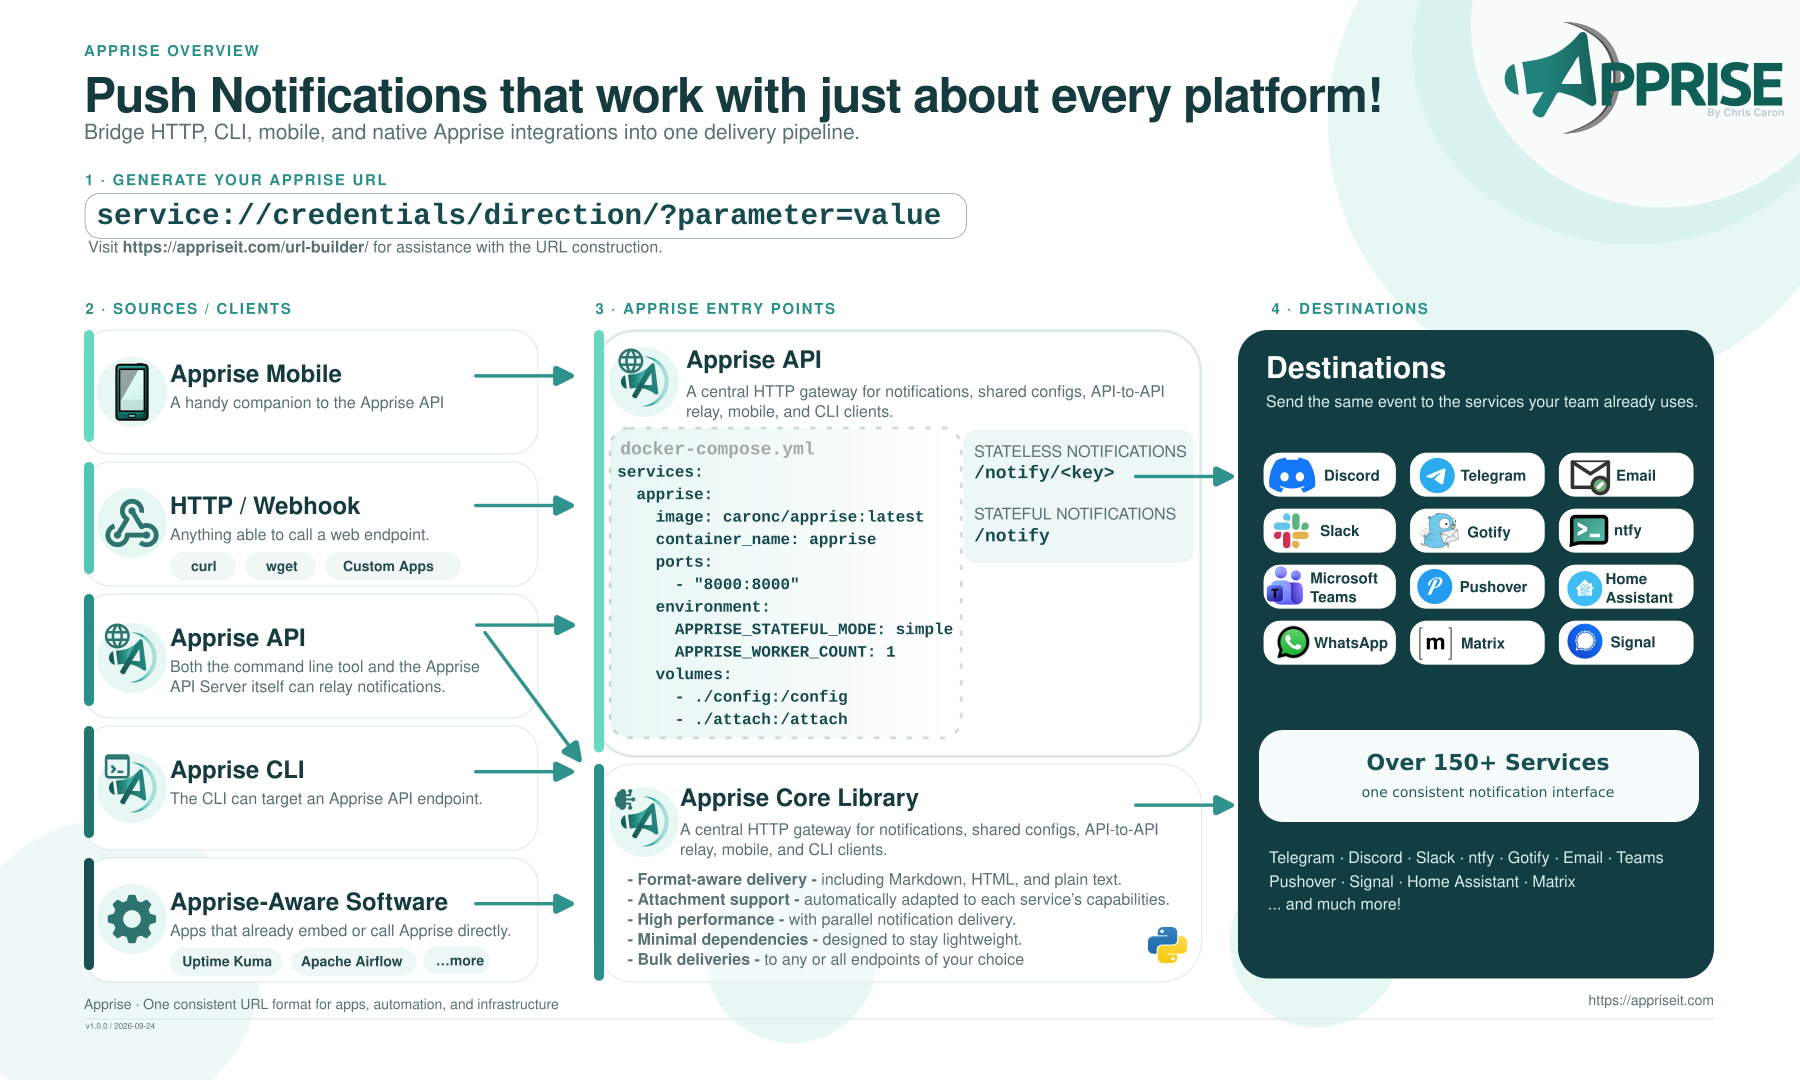
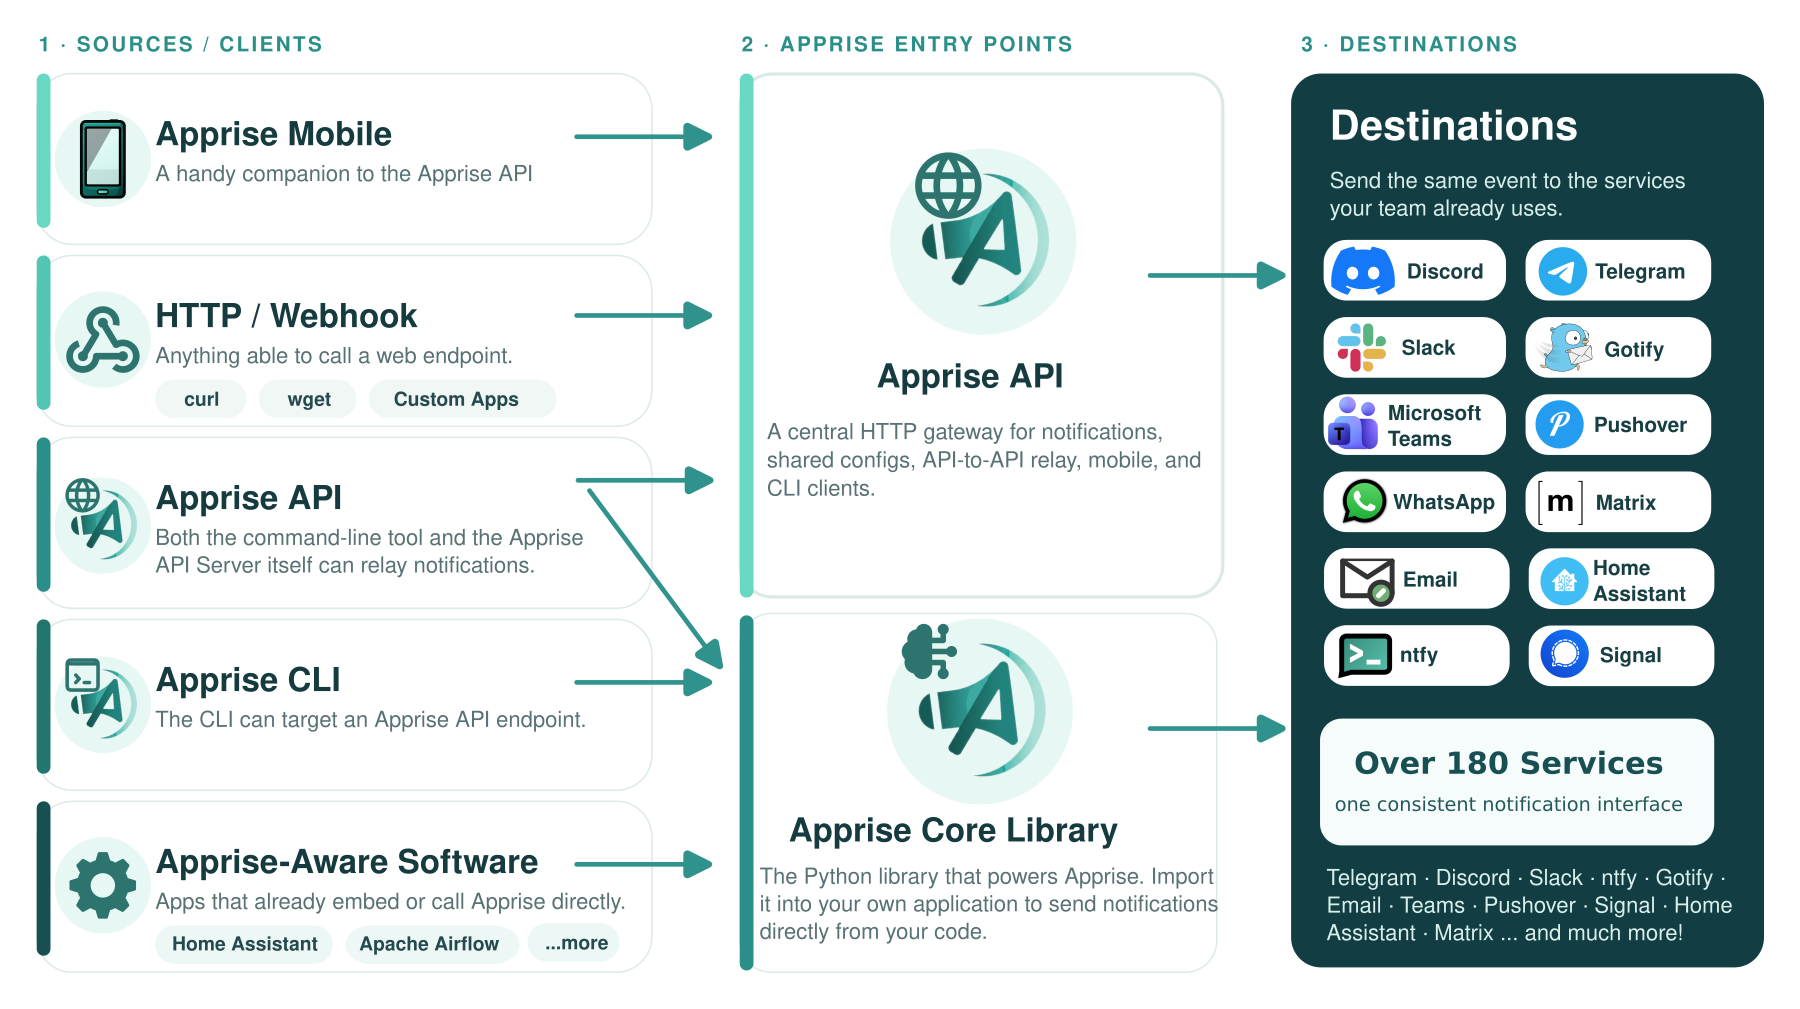
more parse fixes + updated images for README.md

diff --git a/tests/test_fields.py b/tests/test_fields.py
@@ -60,7 +60,7 @@ def round_trip(url):
     return obj, fields, fields_to_url(fields)
 
 
-def test_fields_use_the_names_details_lists():
+def test_field_names_and_types():
     """Fields are named and typed the way details() describes them."""
     _, fields, _ = round_trip(
         "mailtos://user:secret@example.com"
@@ -113,7 +113,7 @@ def test_private_fields_are_hidden():
         ("ntfy://tk_SECRET123456@localhost/topic1", ("tk_SECRET123456",)),
     ),
 )
-def test_privacy_fields_hide_what_the_privacy_url_hides(url, secrets):
+def test_privacy_fields_match_url(url, secrets):
     """Text the privacy URL hides is masked in the privacy fields too."""
     obj = Apprise.instantiate(url)
     hidden = obj.url_fields(privacy=True)
@@ -127,7 +127,7 @@ def test_privacy_fields_hide_what_the_privacy_url_hides(url, secrets):
     assert hidden["retry"] == 0
 
 
-def test_hide_fields_masks_fields_already_read():
+def test_hide_fields():
     """hide_fields() masks fields the way url_fields(privacy=True) does."""
     obj = Apprise.instantiate("json://user:pass@localhost/?+X-Token=abc&-p1=v")
     fields = obj.url_fields()
@@ -140,7 +140,7 @@ def test_hide_fields_masks_fields_already_read():
     assert fields["password"] == "pass"
 
 
-def test_privacy_fields_of_a_url_its_service_would_refuse():
+def test_privacy_fields_unloadable_url():
     """All text but the schema and fixed choices is masked."""
     fields = parse_fields("plivo://AUTHID@SECRETTOKEN/", privacy=True)
     assert fields["schema"] == "plivo"
@@ -181,7 +181,7 @@ def test_privacy_fields_of_a_url_its_service_would_refuse():
         "kodi://[2001:db8::1]:8080",
     ),
 )
-def test_fields_assemble_the_same_url(url):
+def test_fields_round_trip(url):
     """The fields of a URL put the same URL together again."""
     obj, fields, built = round_trip(url)
     again = Apprise.instantiate(built)
@@ -189,7 +189,7 @@ def test_fields_assemble_the_same_url(url):
     assert again.url_fields() == fields
 
 
-def test_email_host_fields_assemble_the_same_url():
+def test_email_host_round_trip():
     """An email written as the host comes back as the same email."""
     # Octopush needs nothing extra, so this runs wherever Apprise does
     fields = parse_fields(
@@ -236,7 +236,7 @@ def test_vapid_fields_without_cryptography():
     assert parse_fields("json://localhost")["schema"] == "json"
 
 
-def test_key_value_options_come_back_as_maps():
+def test_key_value_option_maps():
     """Each +, - and : option comes back in its own map."""
     _, fields, built = round_trip(
         "json://localhost?+X-Token=abc&-p1=v&:key=val"
@@ -308,7 +308,7 @@ def test_fields_from_a_form():
         },
     ),
 )
-def test_fields_that_cannot_be_assembled(fields):
+def test_fields_refused(fields):
     """Unknown schemas and names, and badly shaped values, are refused."""
     assert fields_to_url(fields) is None
 
@@ -316,7 +316,7 @@ def test_fields_that_cannot_be_assembled(fields):
 @pytest.mark.parametrize(
     "schema", ("dbus", "glib", "gnome", "macosx", "windows")
 )
-def test_desktop_services_read_nothing_from_an_unreadable_url(schema):
+def test_desktop_unreadable_url(schema):
     """A URL a desktop service cannot read gives nothing back.
 
     - It holds whether or not the service's own library is installed.
@@ -324,7 +324,7 @@ def test_desktop_services_read_nothing_from_an_unreadable_url(schema):
     assert N_MGR[schema].parse_url(None) is None
 
 
-def test_values_cannot_change_the_url_around_them():
+def test_field_values_quoted():
     """Text is quoted so it never adds options or splits differently."""
     # Brackets only stay unquoted around a real IPv6 host
     built = fields_to_url(
@@ -355,7 +355,7 @@ def test_values_cannot_change_the_url_around_them():
     assert built.startswith("octopush://me@example.com/")
 
 
-def test_aliases_are_merged_into_their_item():
+def test_alias_fields_merged():
     """Content given under an alias is kept, merged into what it stands for."""
     # A list alias adds to the list it stands for
     obj = Apprise.instantiate(
@@ -396,7 +396,22 @@ def test_aliases_are_merged_into_their_item():
     assert fields["sender"] == by_hand.url_fields()["sender"]
 
 
-def test_fields_of_a_url_its_service_would_refuse():
+def test_list_member_fields_merged():
+    """Tokens that add to the same list all end up in it."""
+    obj = Apprise.instantiate(
+        fields_to_url(
+            {
+                "schema": "slack",
+                "access_token": "xoxb-1234-1234-abc124",
+                "targets": ["#general"],
+                "target_user": "@bob",
+            }
+        )
+    )
+    assert sorted(obj.url_fields()["targets"]) == ["#general", "@bob"]
+
+
+def test_fields_unloadable_url():
     """What a URL holds is read even when its service would not load it."""
     # Nothing but the schema, in any case
     assert parse_fields("MAILTO://")["schema"] == "mailto"
@@ -412,7 +427,7 @@ def test_fields_of_a_url_its_service_would_refuse():
         assert parse_fields(url) == {}
 
 
-def test_disabled_services_have_no_fields():
+def test_disabled_service_fields():
     """A disabled service is treated like one that is not known."""
     with mock.patch.object(N_MGR["json"], "enabled", False):
         assert parse_fields("json://localhost") == {}
@@ -423,21 +438,21 @@ def test_disabled_services_have_no_fields():
     assert fields_to_url({"schema": "json", "host": "localhost"})
 
 
-def test_every_service_reads_a_broken_url_without_failing():
+def test_broken_url_fields():
     """A URL cut off mid-way gives no fields, whatever its service."""
     for schema in N_MGR.schemas():
         for url in (f"{schema}://[", f"{schema}://:@[", f"{schema}:///["):
             assert isinstance(parse_fields(url), dict), url
 
 
-def test_url_that_cannot_be_read_back():
+def test_unreadable_own_url():
     """A URL its own plugin cannot read back has no fields."""
     obj = Apprise.instantiate("json://localhost")
     with mock.patch.object(type(obj), "parse_url", return_value=None):
         assert obj.url_fields() == {}
 
 
-def test_values_are_read_as_their_type():
+def test_typed_values():
     """Values are converted to the type their entry describes."""
     # Sets have no order, so they come back sorted
     assert _typed({"b", "a"}, {"type": "list:string"}) == ["a", "b"]

diff --git a/apprise/fields.py b/apprise/fields.py
@@ -74,6 +74,8 @@ EMPTY_PLACEHOLDERS = (
 
 def _empty(value: Any) -> bool:
     """Return whether a value holds nothing worth keeping."""
+    # Empty text and empty collections count as nothing, while 0 and
+    # False are real values
     return (
         value is None
         or value == ""
@@ -126,7 +128,7 @@ def _typed(value: Any, meta: dict[str, Any]) -> Any:
             try:
                 return convert(value)
 
-            except (TypeError, ValueError):
+            except ValueError:
                 # Keep what was written when it is not a number
                 return value
 
@@ -140,6 +142,7 @@ def _fits(value: Any, meta: dict[str, Any], kwarg: bool = False) -> bool:
     - A list is one plain value or a flat list of them.
     - Anything else is one plain value: text, a number or True/False.
     """
+    # True/False count as numbers here, so they are plain values too
     plain = (str, int, float)
     if kwarg:
         return isinstance(value, dict) and all(
@@ -202,12 +205,15 @@ def hide_fields(plugin: Any, fields: dict[str, Any]) -> dict[str, Any]:
     shown = (shown, URLBase.unquote(shown))
 
     def hide(value: Any) -> Any:
+        """Return a value masked wherever the privacy URL hides it."""
+        # Each entry of a list or key/value map is checked on its own
         if isinstance(value, list):
             return [hide(entry) for entry in value]
 
         if isinstance(value, dict):
             return {key: hide(entry) for key, entry in value.items()}
 
+        # Text the privacy URL shows (as is or quoted) is kept
         if not isinstance(value, str) or any(
             text in url
             for url in shown
@@ -255,6 +261,7 @@ def parse_fields(url: str, privacy: bool = False) -> dict[str, Any]:
     - ``privacy`` masks all text but the schema and values picked from a
       list of choices, since such a URL has no privacy URL to compare to.
     """
+    # Only a known service that is turned on can read the URL
     found = GET_SCHEMA_RE.match(url) if isinstance(url, str) else None
     schema = found.group("schema").lower() if found else ""
     if schema not in N_MGR or not N_MGR[schema].enabled:
@@ -268,10 +275,12 @@ def _fields(
     plugin: Any, results: dict, privacy: bool = False
 ) -> dict[str, Any]:
     """Return parse_url() results as fields named the way details() does."""
+    if not results.get("schema"):
+        # The URL could not be read at all
+        return {}
+
     info = details(plugin)
     tokens, args, kwargs = info["tokens"], info["args"], info["kwargs"]
-    if not results.get("schema"):
-        return {}
 
     # The user and password are still quoted; plugins unquote them later
     for key in ("user", "password"):
@@ -309,7 +318,7 @@ def _fields(
             # A lone slash is no path at all
             value = None
 
-        value = _typed(value, meta) if value is not None else None
+        value = _typed(value, meta)
         if not _empty(value):
             fields[name], entries[name] = value, meta
 
@@ -321,8 +330,7 @@ def _fields(
         if "alias_of" in meta or name in fields or meta["map_to"] in held:
             continue
 
-        found = results.get(meta["map_to"])
-        value = _typed(found, meta) if found is not None else None
+        value = _typed(results.get(meta["map_to"]), meta)
         if not _empty(value):
             fields[name], entries[name] = value, meta
             held.add(meta["map_to"])
@@ -343,17 +351,33 @@ def _fields(
 
 
 def _value_for(name: str, given: dict[str, Any], tokens: dict) -> Any:
-    """Return the token value that fills a template placeholder."""
-    if name in given:
-        return given[name]
+    """Return the token value that fills a template placeholder.
 
-    # Another token may set the same value (a list token and its members)
-    key = tokens.get(name, {}).get("map_to", name)
-    for other, value in given.items():
-        if tokens[other]["map_to"] == key:
-            return value
+    A list placeholder also takes the values of every token that adds to
+    the same list, such as ``target_user`` for ``targets``.
+    """
+    # Other tokens may set the same value (a list token and its members)
+    meta = tokens.get(name, {})
+    key = meta.get("map_to", name)
+    found = [
+        value
+        for other, value in given.items()
+        if tokens[other]["map_to"] == key
+    ]
+    if not found:
+        # Nothing was given for this placeholder
+        return None
 
-    return None
+    if not meta.get("type", "").startswith("list"):
+        # One value fills it; the token the template names comes first
+        return given.get(name, found[0])
+
+    # Every value given is kept, so none is lost from the list
+    merged: list[Any] = []
+    for value in found:
+        merged.extend(value if isinstance(value, (list, tuple)) else [value])
+
+    return merged
 
 
 def _text(value: Any) -> str:

diff --git a/tests/test_apprise_utils.py b/tests/test_apprise_utils.py
@@ -2644,7 +2644,7 @@ def test_parse_urls():
     ]
 
 
-def test_parse_urls_keeps_urls_inside_urls():
+def test_parse_urls_nested_urls():
     """utils: parse_urls() only starts a new URL after a delimiter
 
     - A URL inside another (after "=", "/", "&", "#" or "@") stays part
@@ -2717,7 +2717,7 @@ def test_parse_urls_keeps_urls_inside_urls():
         assert utils.parse.parse_urls(text) == expected, repr(text)
 
 
-def test_find_urls_matches_the_url_detection_expression():
+def test_find_urls_matches_regex():
     """utils: _find_urls() finds exactly what URL_DETECTION_RE finds"""
     # The expression as it was before _find_urls() replaced it. Every
     # change to how URLs are split must still agree with it.

diff --git a/tests/test_api.py b/tests/test_api.py
@@ -2936,7 +2936,7 @@ def test_apprise_details_email_token_types():
                 )
 
 
-def test_apprise_details_templates_keep_the_at_sign_before_the_path():
+def test_apprise_details_template_at_sign():
     """An @ in a URL template separates the login from the host.
 
     Anything after the first / is the path, where an @ is just text.
@@ -2952,7 +2952,7 @@ def test_apprise_details_templates_keep_the_at_sign_before_the_path():
             )
 
 
-def test_apprise_details_every_token_can_be_written():
+def test_apprise_details_tokens_writable():
     """Every token can be written into a URL.
 
     A token is written through a template placeholder, through another

diff --git a/tests/test_plugin_email.py b/tests/test_plugin_email.py
@@ -4858,7 +4858,7 @@ def test_plugin_email_recipient_names(key, recipient, name):
     assert obj2.names[addr] == name
 
 
-def test_plugin_email_url_is_the_same_once_loaded_again():
+def test_plugin_email_url_reload():
     """An Email URL loads back to the same URL, connect timeout included."""
     for url in (
         "mailto://user:pass@example.com/",

diff --git a/apprise/utils/parse.py b/apprise/utils/parse.py
@@ -1175,7 +1175,7 @@ def urlencode(query, doseq=False, safe="", encoding=None, errors=None):
     )
 
 
-def _find_urls(text):
+def _find_urls(text: str) -> list[str]:
     """Return the detected URLs.
 
     - A URL runs from its schema to the first place where up to 32

diff --git a/README.md b/README.md
@@ -13,6 +13,8 @@ To inform or tell (someone). To make one aware of something.
 * Supports the handling of images and attachments (_to the notification services that will accept them_).
 * It's incredibly lightweight.
 * Amazing response times because all messages sent asynchronously.
+* Group your services with tags, then notify only the ones that need to know.
+* Private by design: messages go straight from your machine to each service, with no third party in between.
 
 Developers who wish to provide a notification service no longer need to research each and every one out there. They no longer need to try to adapt to the new ones that comeout thereafter. They just need to include this one library and then they can immediately gain access to almost all of the notifications services available to us today.
 
@@ -33,7 +35,12 @@ Visit the [Official Documentation](https://appriseit.com/getting-started/) site 
 
 Apprise provides one consistent URL format and notification interface for your apps, automation, and infrastructure. Use the CLI or core library directly, or relay through Apprise API, to deliver notifications to a very [large amount of supported services](https://appriseit.com/services/).
 
-[![Apprise overview showing notification sources, entry points, and supported destinations](Apprise-overview.png)](Apprise-overview.png)
+<a href="https://appriseit.com/getting-started/#how-apprise-fits-together">
+  <picture>
+    <source media="(prefers-color-scheme: dark)" srcset="https://raw.githubusercontent.com/caronc/apprise/master/Apprise-overview-dark.png">
+    <img alt="Apprise overview showing notification sources, entry points, and supported destinations" src="Apprise-overview.png">
+  </picture>
+</a>
 
 # Table of Contents
 <!--ts-->
